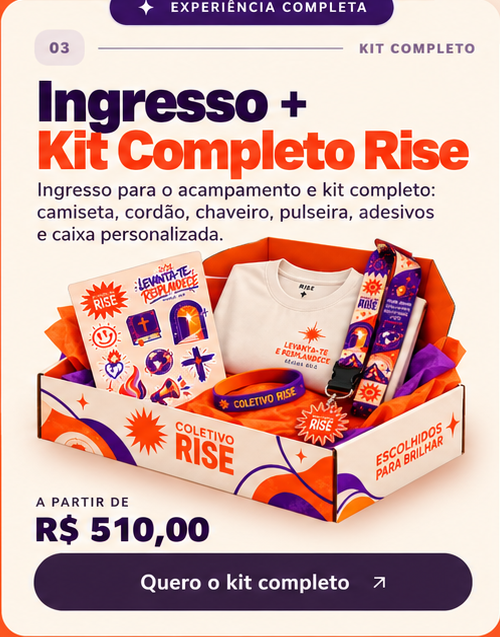
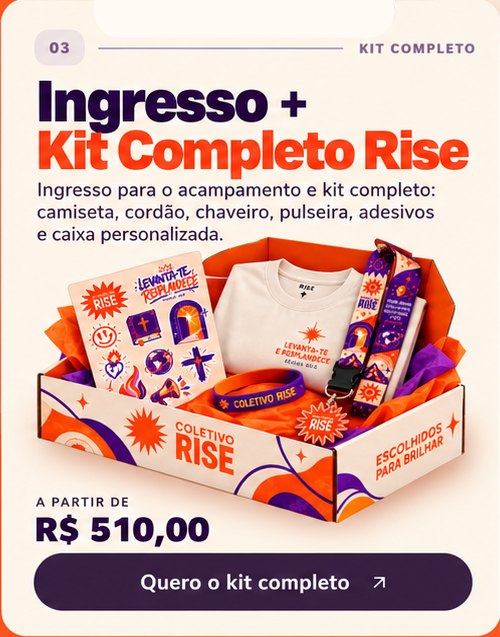
Remove experience badges from desktop and mobile

Changed region(s): [[0.21, 0.0, 0.81, 0.0597]]

diff --git a/app/globals.css b/app/globals.css
@@ -1309,10 +1309,6 @@ body:has(.edition-lightbox) { overflow: hidden; }
   .camp-experience-links { position: static; display: grid; grid-template-columns: 1fr; gap: 16px; padding: 16px; background: var(--orange); }
   .camp-experience-links a { min-height: 0; position: relative; border-radius: 16px; background: transparent; box-shadow: 0 12px 28px rgba(43,23,65,.16); transform: none !important; touch-action: manipulation; -webkit-tap-highlight-color: transparent; overflow: hidden; }
   .camp-experience-links a img { width: 100%; height: auto; display: block; pointer-events: none; transform: none !important; }
-  .camp-experience-links a:nth-child(2)::before,
-  .camp-experience-links a:nth-child(3)::before { content: ""; position: absolute; z-index: 1; top: 0; height: 9%; background: #fffaf4; pointer-events: none; }
-  .camp-experience-links a:nth-child(2)::before { left: 28%; width: 45%; }
-  .camp-experience-links a:nth-child(3)::before { left: 20%; width: 58%; }
 }
 .cell-directory-grid { margin-bottom: 90px; }
 .cell-directory-grid.cell-directory { display: block; min-height: 0; padding: clamp(32px, 5vw, 58px); }

diff --git a/app/acampamento/page.tsx b/app/acampamento/page.tsx
@@ -80,7 +80,7 @@ export default function AcampamentoPage() {
       </section>
 
       <section className="section-shell camp-experience-picker" aria-label="Escolha sua experiência no Acampamento Rise 2027">
-        <img src="/assets/acampamento-experiencias.png" alt="Três experiências para o Acampamento Rise: ingresso, ingresso com camiseta e kit completo" />
+        <img src="/assets/acampamento-experiencias-clean.png" alt="Três experiências para o Acampamento Rise: ingresso, ingresso com camiseta e kit completo" />
         <div className="camp-experience-links">
           <Link href="/inscricao?kit=1" aria-label="Escolher kit 1: somente ingresso"><img src="/assets/acampamento-kit-1.png" alt="Kit 1 — somente ingresso" /></Link>
           <Link href="/inscricao?kit=2" aria-label="Escolher kit 2: ingresso com camiseta"><img src="/assets/acampamento-kit-2.png" alt="Kit 2 — ingresso com camiseta" /></Link>
